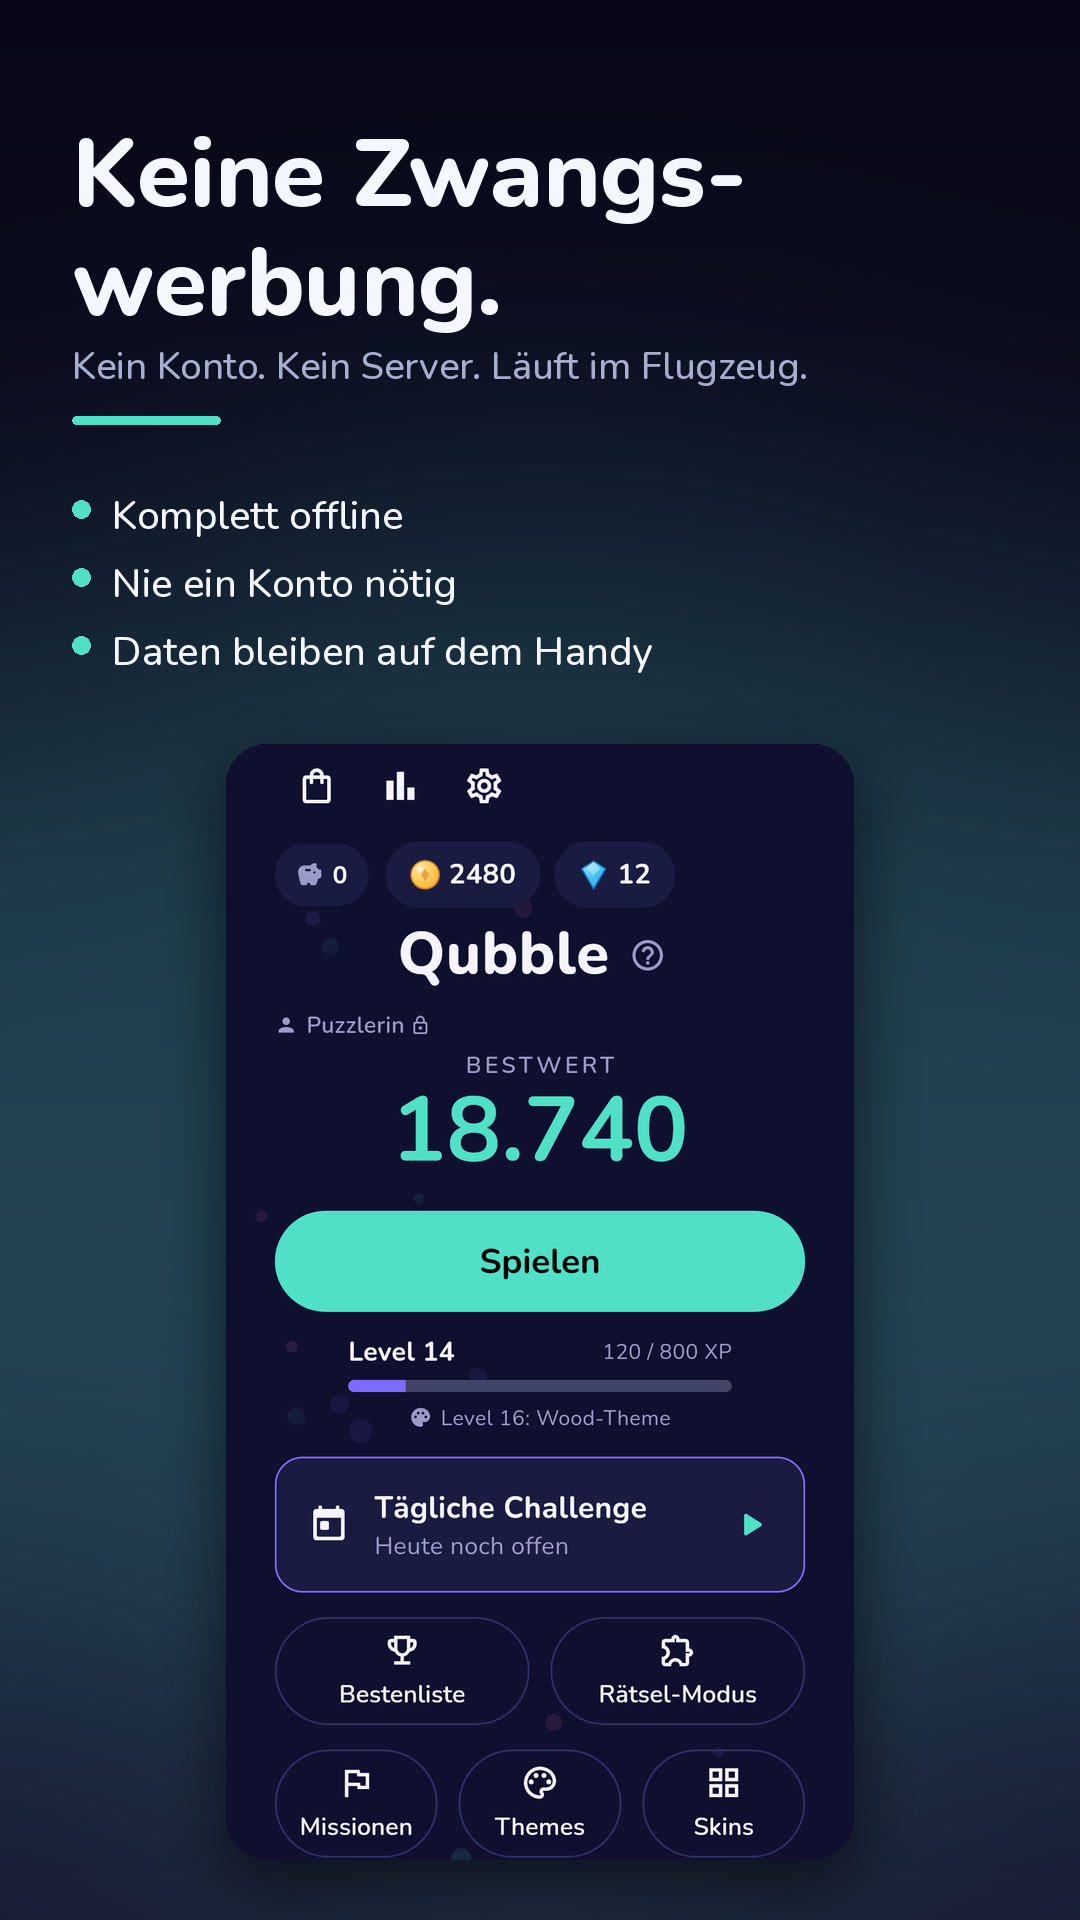
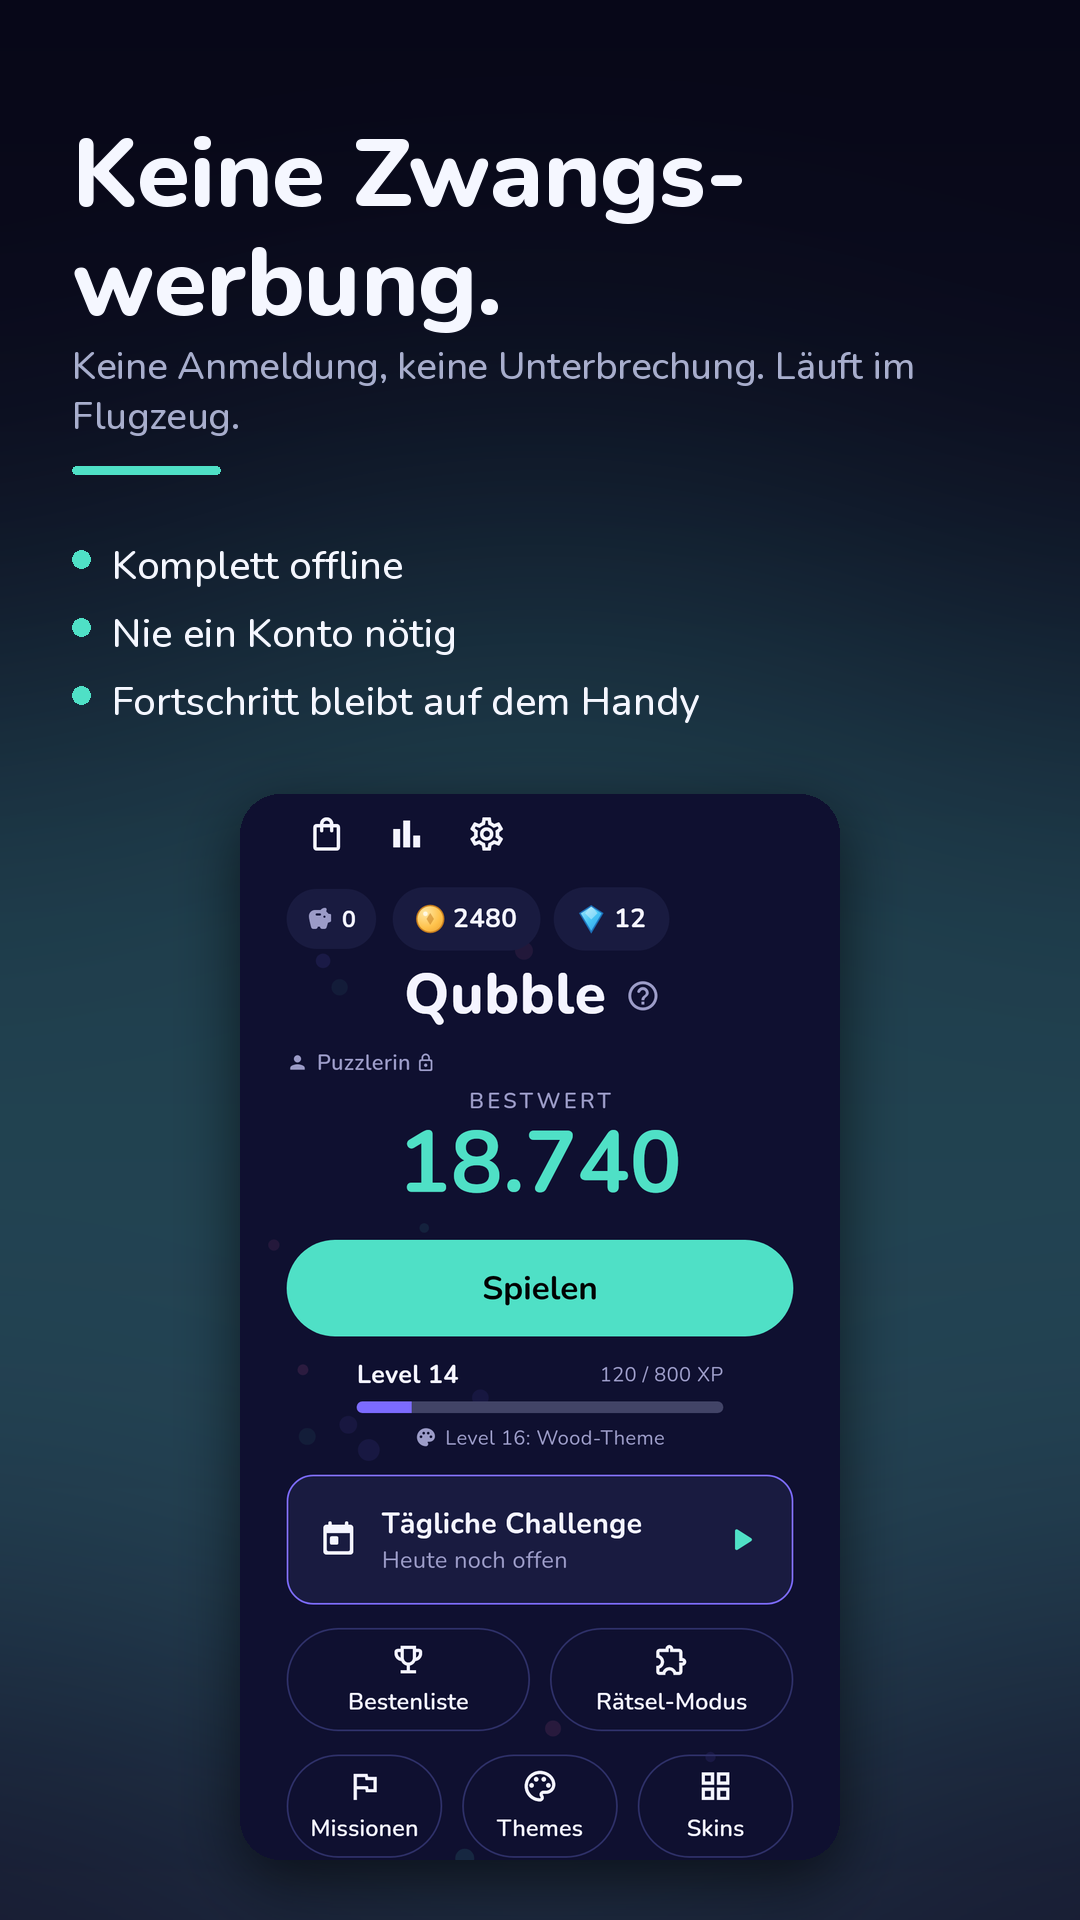
Take the disproved claims out of the CSV and the screenshots too
Phase 5 removed three unsupportable claims from docs/STORE-LISTING.md.
It missed the two files that actually reach the store.

store-assets/store-listing.csv -- the file that gets imported -- still
carried all three: no server, three stars for the fewest moves, and no
time pressure. Only the full description changes; the title and short
description carried none of them, and changing more than necessary while
readmission is pending is its own risk. Title variants for an A/B test
stay in audit/05-aso.md, where they belong to a Play experiment.

The screenshot captions were worse, and they are already published. The
statement frame denied having a backend and claimed the player's data
never leaves the device, while docs/DATA-SAFETY.md declares five shared
data types and Google cross-checks the listing against that declaration.
Both are replaced with claims that survive a reading of the code: the
game needs no network, the player never creates an account, and progress
really is local -- shared_preferences, no cloud save. Only screenshot 6
changes; the regeneration is deterministic and 1-5 come out identical.

test/store_claims_test.dart now fails on any of them, in the CSV, the
caption source and the audit copy, each entry naming the line of code
that disproves it. The same three claims were removed twice and came
back a third time in a place nobody looked, which is what a test is for.

Claude-Session: https://claude.ai/code/session_016qGv6YYkv52DjobxNpUwTo

Changed region(s): [[0.0611, 0.1875, 0.7944, 0.9688], [0.4583, 0.875, 0.55, 0.9688]]

diff --git a/test/store_claims_test.dart b/test/store_claims_test.dart
@@ -1,0 +1,82 @@
+// Store metadata must survive a reading of the code, because a listing that
+// overstates the app is a Misrepresentation case rather than a marketing
+// choice -- and Google cross-checks the listing against the Data safety
+// declaration in docs/DATA-SAFETY.md.
+//
+// This exists because the same three claims were removed twice and came back
+// a third time in a place nobody looked. Phase 5 of the audit took them out of
+// docs/STORE-LISTING.md; store-assets/store-listing.csv still carried all
+// three, and the screenshot captions carried two more of their own -- one of
+// them "your data stays on the phone", flatly contradicting a declaration that
+// names five shared data types.
+//
+// Every entry below is disproved by a specific line of code, named with it.
+// If a claim here becomes true, delete its entry -- do not weaken the match.
+import 'dart:io';
+
+import 'package:flutter_test/flutter_test.dart';
+
+/// Claim -> why it is false.
+const disproved = <String, String>{
+  'no server':
+      'the leaderboard writes name and score to Cloud Firestore '
+          '(lib/services/leaderboard.dart:133-166)',
+  'kein server':
+      'die Bestenliste schreibt Name und Punktestand nach Cloud Firestore '
+          '(lib/services/leaderboard.dart:133-166)',
+  'data stays on the phone':
+      'docs/DATA-SAFETY.md declares five shared data types',
+  'daten bleiben auf dem handy':
+      'docs/DATA-SAFETY.md deklariert fünf geteilte Datenarten',
+  'minimum number of moves':
+      'every solved level awards 3 stars regardless of move count '
+          '(audit/03-loop.md L-2)',
+  'mindestzahl an zügen':
+      'jedes gelöste Level gibt 3 Sterne, unabhängig von der Zugzahl '
+          '(audit/03-loop.md L-2)',
+  'kein zeitdruck':
+      'the combo expires after 10 s with a visible countdown '
+          '(lib/game/scoring.dart:50)',
+};
+
+/// Files whose text reaches the store listing.
+const storeFacing = <String>[
+  'store-assets/store-listing.csv',
+  'tool/caption_screenshots.py',
+  'audit/copy/long-en.txt',
+  'audit/copy/long-de.txt',
+];
+
+void main() {
+  for (final path in storeFacing) {
+    test('$path makes no claim the code disproves', () {
+      final file = File(path);
+      expect(file.existsSync(), isTrue, reason: '$path is missing');
+      final text = file.readAsStringSync().toLowerCase();
+
+      final found = <String>[];
+      disproved.forEach((claim, why) {
+        if (text.contains(claim)) found.add('"$claim" — $why');
+      });
+
+      expect(
+        found,
+        isEmpty,
+        reason: 'Claims that do not survive a reading of the code:\n'
+            '  ${found.join('\n  ')}',
+      );
+    });
+  }
+
+  test('the claim list is actually checked against something', () {
+    // Guards the guard: a typo in a path would make every test above pass by
+    // reading an empty string.
+    for (final path in storeFacing) {
+      expect(
+        File(path).readAsStringSync().length,
+        greaterThan(200),
+        reason: '$path looks empty — the checks above would be vacuous',
+      );
+    }
+  });
+}

diff --git a/tool/caption_screenshots.py b/tool/caption_screenshots.py
@@ -97,7 +97,7 @@ CAPTIONS = {
         "3-daily": ("A new board\nevery day", "Same puzzle for everyone. Build a streak."),
         "4-themes": ("Eight themes.\nPick your mood.", "Wood, neon, ocean, forest and more"),
         "5-puzzle": ("Every puzzle\nhas a solution", "Checked by the solver, not left to chance"),
-        "6-offline": ("No forced ads.\nEver.", "No account. No server. Plays on a plane."),
+        "6-offline": ("No forced ads.\nEver.", "No sign-up, no interruptions. Plays on a plane."),
     },
     "de": {
         "1-clear": ("Reihe voll.\nReihe weg.", "Ein Zug, ein befriedigendes Clear"),
@@ -105,14 +105,30 @@ CAPTIONS = {
         "3-daily": ("Jeden Tag\nein neues Board", "Für alle dasselbe Puzzle. Bau deinen Streak."),
         "4-themes": ("Acht Themes.\nDeine Stimmung.", "Holz, Neon, Ozean, Wald und mehr"),
         "5-puzzle": ("Jedes Rätsel\nist lösbar", "Vom Solver geprüft, nicht dem Zufall überlassen"),
-        "6-offline": ("Keine Zwangs-\nwerbung.", "Kein Konto. Kein Server. Läuft im Flugzeug."),
+        "6-offline": ("Keine Zwangs-\nwerbung.", "Keine Anmeldung, keine Unterbrechung. Läuft im Flugzeug."),
     },
 }
 
 # The three proof lines on the statement frame.
+#
+# The third line used to claim the player's data never leaves the device, and
+# the frame-6 subline used to deny having a backend. Both are false: the
+# leaderboard writes name and score to Cloud Firestore
+# (lib/services/leaderboard.dart:133-166), and docs/DATA-SAFETY.md declares
+# five shared data types. Google cross-checks the listing against that
+# declaration, so those two lines were the highest-risk text in the whole
+# store entry. test/store_claims_test.dart now fails on either of them, in
+# this file and in store-assets/store-listing.csv — which is why they are
+# described here rather than quoted.
+#
+# What survives a reading of the code: the GAME needs no network (no gameplay
+# call anywhere), the player never creates an account (anonymous auth only, no
+# visible login), and PROGRESS really is local — highscore, coins, levels and
+# puzzle stars all live in shared_preferences with no cloud save. Only a
+# leaderboard entry leaves the device, and only when the player submits one.
 PROOF = {
-    "en": ["Plays fully offline", "No account, ever", "Your data stays on the phone"],
-    "de": ["Komplett offline", "Nie ein Konto nötig", "Daten bleiben auf dem Handy"],
+    "en": ["Plays fully offline", "No account, ever", "Progress stays on your phone"],
+    "de": ["Komplett offline", "Nie ein Konto nötig", "Fortschritt bleibt auf dem Handy"],
 }
 
 
